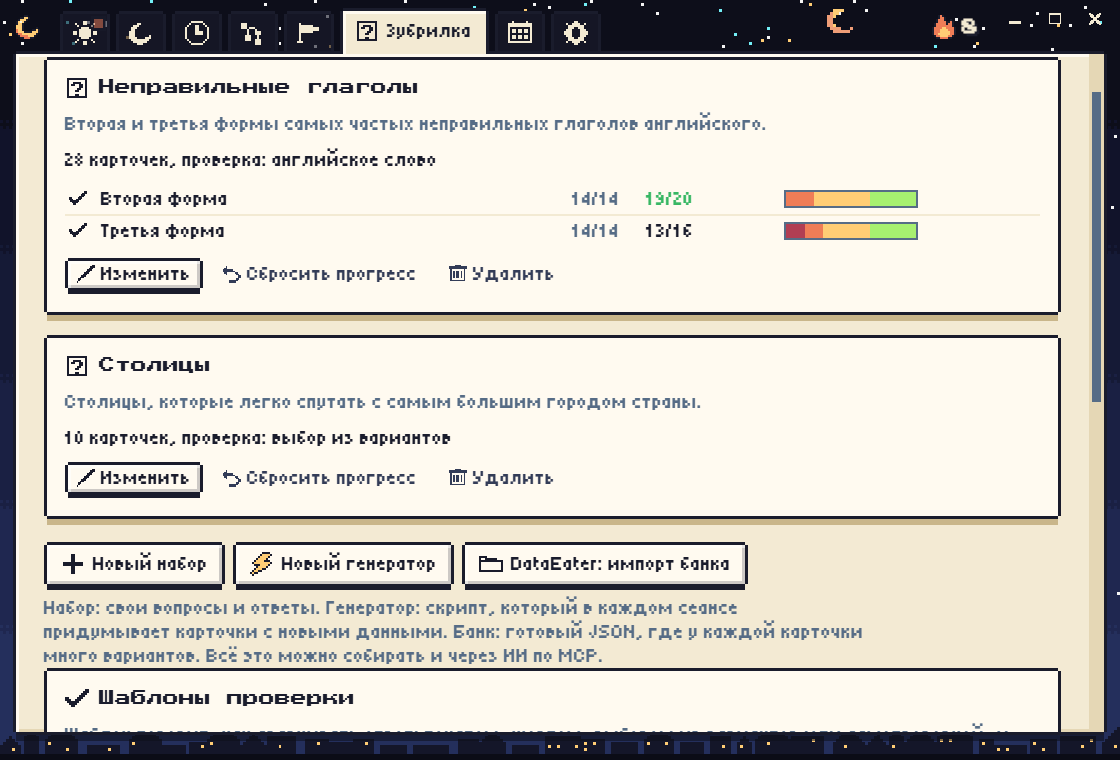
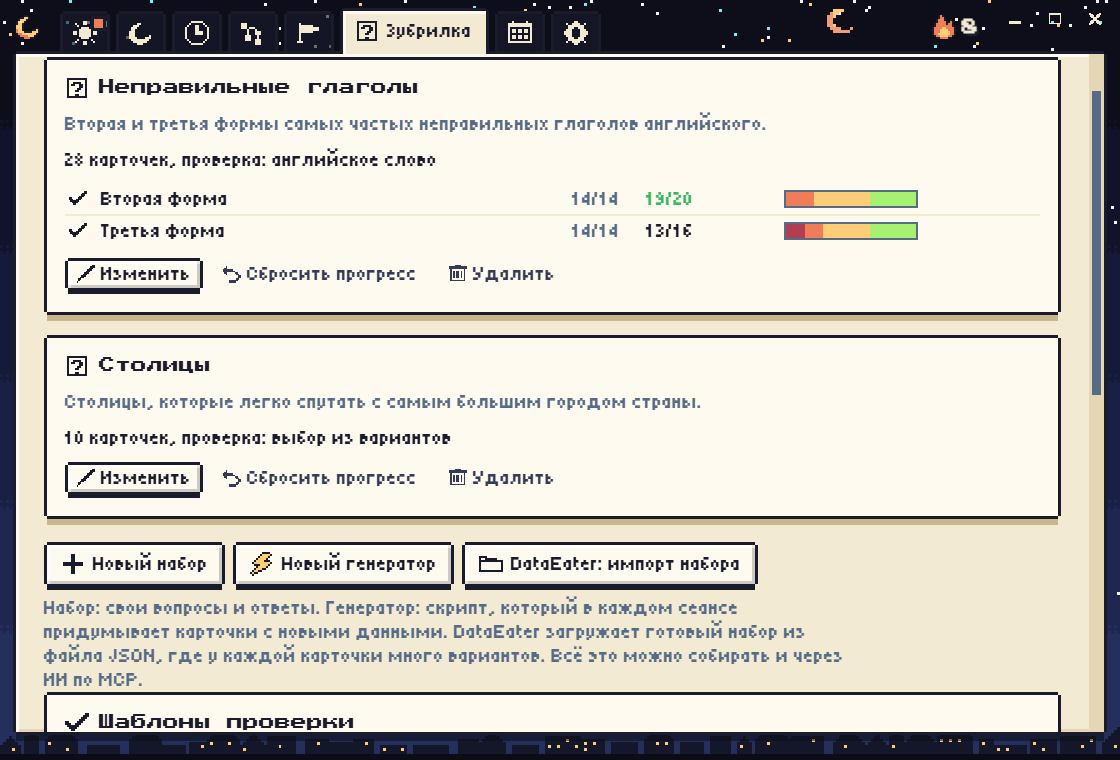
Call imported banks decks from a file in the interface

Changed region(s): [[0.0312, 0.8171, 0.9688, 0.9684], [0.625, 0.6961, 0.6875, 0.7868]]

diff --git a/src/drill/DataEater.tsx b/src/drill/DataEater.tsx
@@ -61,7 +61,7 @@ export function DataEater({ banks, onClose, onDone }: { banks: DrillDeckInfo[]; 
   return (
     <Modal
       wide
-      title={t("DataEater: импорт банка", "DataEater: import a bank")}
+      title={t("DataEater: импорт набора", "DataEater: import a deck")}
       onClose={onClose}
       footer={
         <>
@@ -80,8 +80,8 @@ export function DataEater({ banks, onClose, onDone }: { banks: DrillDeckInfo[]; 
       <div className="drill-form">
         <p className="muted">
           {t(
-            "DataEater ест готовые банки карточек в формате JSON. В банке темы с теорией и карточки, у каждой карточки много вариантов с разными данными. После промаха карточка вернётся с другим вариантом. Такой файл обычно собирает скрипт, который сам считает ответы, или ИИ через MCP (import_drill_bank).",
-            "DataEater eats ready card banks in JSON. A bank has topics with theory and cards, and each card has many variants with different data. After a miss the card comes back with another variant. Such a file is usually built by a script that computes the answers itself, or by AI over MCP (import_drill_bank).",
+            "DataEater ест готовые наборы из файлов JSON. В таком наборе темы с теорией и карточки, у каждой карточки много вариантов с разными данными. После промаха карточка вернётся с другим вариантом. Файл обычно собирает скрипт, который сам считает ответы, или ИИ через MCP (import_drill_bank).",
+            "DataEater eats ready decks from JSON files. A deck like this has topics with theory and cards, and each card has many variants with different data. After a miss the card comes back with another variant. The file is usually built by a script that computes the answers itself, or by AI over MCP (import_drill_bank).",
           )}
         </p>
         <pre className="eater-format">
@@ -109,7 +109,7 @@ export function DataEater({ banks, onClose, onDone }: { banks: DrillDeckInfo[]; 
                   {t(`Заменить «${same.title}», прогресс сохранится`, `Replace "${same.title}", progress is kept`)}
                 </button>
                 <button className={replace === null ? "on" : ""} onClick={() => setReplace(null)}>
-                  {t("Добавить новым банком", "Add as a new bank")}
+                  {t("Добавить новым набором", "Add as a new deck")}
                 </button>
               </div>
             )}
@@ -120,8 +120,8 @@ export function DataEater({ banks, onClose, onDone }: { banks: DrillDeckInfo[]; 
           <div className="eater-file">
             <p className="good">
               {t(
-                `${report.replaced ? "Заменён" : "Добавлен"} банк «${report.title}»`,
-                `${report.replaced ? "Replaced" : "Added"} the bank "${report.title}"`,
+                `${report.replaced ? "Заменён" : "Добавлен"} набор «${report.title}»`,
+                `${report.replaced ? "Replaced" : "Added"} the deck "${report.title}"`,
               )}
               : {plural(report.topics, "тема", "темы", "тем", "topic", "topics")},{" "}
               {plural(report.cards, "карточка", "карточки", "карточек", "card", "cards")},{" "}
@@ -136,7 +136,7 @@ export function DataEater({ banks, onClose, onDone }: { banks: DrillDeckInfo[]; 
               </ul>
             )}
             <p className="muted">
-              {t("Чтобы зубрить банк, добавь его в режим на вкладке Старт.", "To drill the bank, add it to a mode on the Start tab.")}
+              {t("Чтобы зубрить набор, добавь его в режим на вкладке Старт.", "To drill the deck, add it to a mode on the Start tab.")}
             </p>
           </div>
         )}

diff --git a/src/drill/DrillDecks.tsx b/src/drill/DrillDecks.tsx
@@ -66,7 +66,7 @@ export function DrillDecks({ ov, reload }: { ov: DrillOverview; reload: () => Pr
         <section key={d.id} className={`card drill-deck${d.kind === "generator" && !d.enabled ? " off" : ""}`}>
           <h2 className="card-title">
             <Px name={d.kind === "generator" ? "sBolt" : "cards"} scale={2} /> {d.title}
-            {d.kind === "bank" && <span className="drill-chip">{t("банк", "bank")}</span>}
+            {d.kind === "bank" && <span className="drill-chip">{t("из файла", "from file")}</span>}
             {d.kind === "generator" && <span className="drill-chip gen">{t("генератор", "generator")}</span>}
             {d.kind === "generator" && !d.enabled && <span className="drill-chip again">{t("выключен", "off")}</span>}
             {d.author === "ai" && <span className="drill-chip ai">{t("от ИИ", "by AI")}</span>}
@@ -136,8 +136,8 @@ export function DrillDecks({ ov, reload }: { ov: DrillOverview; reload: () => Pr
               onClick={() =>
                 setSure({
                   text: t(
-                    `Удалить ${d.kind === "generator" ? "генератор" : d.kind === "bank" ? "банк" : "набор"} «${d.title}» вместе с прогрессом?`,
-                    `Delete the ${d.kind === "generator" ? "generator" : d.kind === "bank" ? "bank" : "deck"} "${d.title}" with its progress?`,
+                    `Удалить ${d.kind === "generator" ? "генератор" : "набор"} «${d.title}» вместе с прогрессом?`,
+                    `Delete the ${d.kind === "generator" ? "generator" : "deck"} "${d.title}" with its progress?`,
                   ),
                   run: () => run(() => api.drillDeleteDeck(d.id)),
                 })
@@ -160,13 +160,13 @@ export function DrillDecks({ ov, reload }: { ov: DrillOverview; reload: () => Pr
           {t("Новый генератор", "New generator")}
         </Button>
         <Button kind="paper" icon="folder" onClick={() => setEater(true)}>
-          {t("DataEater: импорт банка", "DataEater: import a bank")}
+          {t("DataEater: импорт набора", "DataEater: import a deck")}
         </Button>
       </div>
       <p className="muted drill-help">
         {t(
-          "Набор: свои вопросы и ответы. Генератор: скрипт, который в каждом сеансе придумывает карточки с новыми данными. Банк: готовый JSON, где у каждой карточки много вариантов. Всё это можно собирать и через ИИ по MCP.",
-          "Deck: your own questions and answers. Generator: a script that makes up cards with new data in every session. Bank: a ready JSON file where each card has many variants. You can also build all of these with AI over MCP.",
+          "Набор: свои вопросы и ответы. Генератор: скрипт, который в каждом сеансе придумывает карточки с новыми данными. DataEater загружает готовый набор из файла JSON, где у каждой карточки много вариантов. Всё это можно собирать и через ИИ по MCP.",
+          "Deck: your own questions and answers. Generator: a script that makes up cards with new data in every session. DataEater loads a ready deck from a JSON file where each card has many variants. You can also build all of these with AI over MCP.",
         )}
       </p>
       <CheckTemplates list={ov.checks} reload={reload} />
@@ -197,7 +197,7 @@ export function DrillDecks({ ov, reload }: { ov: DrillOverview; reload: () => Pr
           banks={ov.decks.filter((d) => d.kind === "bank")}
           onClose={() => setEater(false)}
           onDone={() => {
-            toast(t("Банк импортирован.", "Bank imported."), "good");
+            toast(t("Набор импортирован.", "Deck imported."), "good");
             void reload();
           }}
         />

diff --git a/src/drill/DrillScreen.tsx b/src/drill/DrillScreen.tsx
@@ -135,8 +135,8 @@ export function DrillScreen() {
               </h2>
               <p>
                 {t(
-                  "Зубрилка учит всему, что можно разложить на вопросы и ответы. Собери свой набор карточек, загрузи готовый банк из файла или попроси ИИ собрать набор через MCP.",
-                  "The drill trainer teaches anything you can split into questions and answers. Build your own deck of cards, load a ready bank from a file or ask an AI to build a deck over MCP.",
+                  "Зубрилка учит всему, что можно разложить на вопросы и ответы. Собери свои карточки, загрузи готовый набор из файла или попроси ИИ собрать набор через MCP.",
+                  "The drill trainer teaches anything you can split into questions and answers. Build your own cards, load a ready deck from a file or ask an AI to build a deck over MCP.",
                 )}
               </p>
               <div className="row">

diff --git a/src/drill/PresetEditor.tsx b/src/drill/PresetEditor.tsx
@@ -46,7 +46,7 @@ const KIND_NOTE = (d: DrillDeckInfo) =>
       ? t(", генератор", ", generator")
       : t(", генератор выключен", ", generator off")
     : d.kind === "bank"
-      ? t(", банк", ", bank")
+      ? t(", из файла", ", from file")
       : "";
 
 const GOALS: { value: DrillGoal; label: string }[] = [

diff --git a/src-tauri/src/drill.rs b/src-tauri/src/drill.rs
@@ -2264,9 +2264,9 @@ pub struct ImportReport {
 
 pub fn parse_bank(text: &str) -> Result<BankInput, String> {
     if text.len() as u64 > MAX_BANK_BYTES {
-        return Err(tr!("Банк больше 16 МБ.", "The bank is larger than 16 MB."));
+        return Err(tr!("Файл набора больше 16 МБ.", "The deck file is larger than 16 MB."));
     }
-    serde_json::from_str(text.trim_start_matches('\u{feff}')).map_err(|e| tr!("Банк не читается как JSON: {e}.", "The bank is not valid JSON: {e}."))
+    serde_json::from_str(text.trim_start_matches('\u{feff}')).map_err(|e| tr!("Файл набора не читается как JSON: {e}.", "The deck file is not valid JSON: {e}."))
 }
 
 pub fn read_bank_file(path: &str) -> Result<BankInput, String> {
@@ -2276,7 +2276,7 @@ pub fn read_bank_file(path: &str) -> Result<BankInput, String> {
     }
     let len = std::fs::metadata(p).map_err(|e| tr!("Файл не найден: {e}.", "File not found: {e}."))?.len();
     if len > MAX_BANK_BYTES {
-        return Err(tr!("Банк больше 16 МБ.", "The bank is larger than 16 MB."));
+        return Err(tr!("Файл набора больше 16 МБ.", "The deck file is larger than 16 MB."));
     }
     parse_bank(&std::fs::read_to_string(p).map_err(|e| tr!("Файл не читается: {e}.", "The file can't be read: {e}."))?)
 }
@@ -2284,18 +2284,18 @@ pub fn read_bank_file(path: &str) -> Result<BankInput, String> {
 pub fn import_bank(store: &Store, at: NaiveDateTime, input: BankInput, replace: Option<&str>, author: Author) -> Result<ImportReport, String> {
     let _g = store.lock();
     let existing: Option<Bank> = match replace.filter(|r| !r.is_empty()) {
-        Some(r) => Some(store.load_item(BANKS, r).ok_or_else(|| tr!("Банк для замены не найден.", "The bank to replace was not found."))?),
+        Some(r) => Some(store.load_item(BANKS, r).ok_or_else(|| tr!("Набор для замены не найден.", "The deck to replace was not found."))?),
         None => None,
     };
     if existing.is_none() && deck_count(store) >= MAX_DECKS {
         return Err(tr!("Наборов не больше {MAX_DECKS}.", "At most {MAX_DECKS} decks."));
     }
-    let title = text(&input.title, 80, &tr!("Название банка", "Bank title"))?;
+    let title = text(&input.title, 80, &tr!("Название набора", "Deck title"))?;
     if title.is_empty() {
-        return Err(tr!("У банка нет названия: заполни title.", "The bank has no title: fill in title."));
+        return Err(tr!("У набора нет названия: заполни title.", "The deck has no title: fill in title."));
     }
     if input.cards.len() > MAX_CARDS {
-        return Err(tr!("В банке не больше {MAX_CARDS} карточек.", "A bank holds at most {MAX_CARDS} cards."));
+        return Err(tr!("В наборе не больше {MAX_CARDS} карточек.", "A deck holds at most {MAX_CARDS} cards."));
     }
     let mut topics = clean_topics(input.topics)?;
     let mut seen = HashSet::new();
@@ -2335,10 +2335,10 @@ pub fn import_bank(store: &Store, at: NaiveDateTime, input: BankInput, replace: 
         cards.push(card);
     }
     if overflow {
-        note(&mut problems, tr!("Часть вариантов не вошла: не больше {MAX_VARIANTS} на карточку и {MAX_BANK_VARIANTS} на банк.", "Some variants were left out: at most {MAX_VARIANTS} per card and {MAX_BANK_VARIANTS} per bank."));
+        note(&mut problems, tr!("Часть вариантов не вошла: не больше {MAX_VARIANTS} на карточку и {MAX_BANK_VARIANTS} на набор.", "Some variants were left out: at most {MAX_VARIANTS} per card and {MAX_BANK_VARIANTS} per deck."));
     }
     if cards.is_empty() {
-        return Err(tr!("В банке нет ни одной рабочей карточки. {}", "The bank has no working cards. {}", problems.join(" ")));
+        return Err(tr!("В наборе нет ни одной рабочей карточки. {}", "The deck has no working cards. {}", problems.join(" ")));
     }
     topics.retain(|t| cards.iter().any(|c| c.topic == t.id));
     let now = fmt_dt(at);
@@ -2448,7 +2448,7 @@ pub fn save_article(store: &Store, at: NaiveDateTime, input: ArticleInput, autho
     }
     let _g = store.lock();
     let existing: Option<Article> = match input.id.as_deref().filter(|i| !i.is_empty()) {
-        Some(i) if bank_articles(&cat).iter().any(|a| a.id == i) => return Err(tr!("Статью банка или генератора менять нельзя, добавь свою.", "Articles of banks and generators can't be changed, add your own.")),
+        Some(i) if bank_articles(&cat).iter().any(|a| a.id == i) => return Err(tr!("Статью из набора менять нельзя, добавь свою.", "An article from the deck can't be changed, add your own.")),
         Some(i) => Some(store.load_item(THEORY, i).ok_or_else(|| tr!("Статья не найдена.", "Article not found."))?),
         None => None,
     };
@@ -2470,7 +2470,7 @@ pub fn save_article(store: &Store, at: NaiveDateTime, input: ArticleInput, autho
 
 pub fn delete_article(store: &Store, id: &str) -> Result<(), String> {
     if bank_articles(&Catalog::load(store)).iter().any(|a| a.id == id) {
-        return Err(tr!("Статью банка или генератора удалить нельзя.", "Articles of banks and generators can't be deleted."));
+        return Err(tr!("Статью из набора удалить нельзя.", "An article from the deck can't be deleted."));
     }
     let _g = store.lock();
     store.delete_item(THEORY, id)

diff --git a/src-tauri/src/ai_guide.rs b/src-tauri/src/ai_guide.rs
@@ -1,10 +1,11 @@
 pub const INSTRUCTIONS: &str = "Next Day is the user's local day planner (Windows tray app). The user plans only TOMORROW, ticks checklist items during the day and seals the day with a rating. A goal is a map: topics linked by prerequisites, each with tasks ranked from simple to hard. While a goal is active the app itself puts its next tasks into tomorrow's plan, as many as fit the goal's daily minutes, and ticks move the goal forward. Start with get_overview and take dates from it. Before building a goal, read get_profile (real working rhythm) and recent get_history. create_goal makes a DRAFT that only the user can activate in the app; never pretend a draft is active. The drill trainer (tab Зубрилка) keeps decks of cards and presets of how to drill them: read get_drill before coaching, build decks with create_drill_deck and a fitting check template, tasks that need fresh data every time with install_drill_generator (a sandboxed JavaScript plugin) or import_drill_bank (a prepared JSON bank), and never turn on the screen lock or remove its escape unless the user asked. Read the resource nextday://guide for the data model, planning rules, tool reference and workflows.";
 
-const ENGLISH_UI: [(&str, &str); 26] = [
+const ENGLISH_UI: [(&str, &str); 27] = [
     ("ИИ через MCP", "AI over MCP"),
     ("Зубрилка", "Drill"),
     ("Справочник", "Reference"),
     ("Наборы", "Decks"),
+    ("из файла", "from file"),
     ("Проверить", "Test"),
     ("Основные", "Basic"),
     ("Для программистов", "For programmers"),
@@ -161,7 +162,7 @@ A checklist holds at most 40 items and is always sorted by start hour counted fr
 Decks come in three kinds, all drilled the same way through presets:
 
 - deck: cards written by hand or by AI with `create_drill_deck`. The fields are below.
-- bank: a prepared bank imported from JSON with `import_drill_bank` (DataEater). Every card is a template with many variants that differ only in data, for example code cards whose answers come from executing the code.
+- bank: a deck imported from a JSON file with `import_drill_bank` (DataEater). The app labels it из файла and never says bank, so call it a deck when you talk to the user. Every card is a template with many variants that differ only in data, for example code cards whose answers come from executing the code.
 - generator: a JavaScript plugin that makes fresh variants at the start of every session, installed with `install_drill_generator`.
 
 After a miss, a card of a bank or a generator comes back with another variant: the same task with new data.

diff --git a/README.md b/README.md
@@ -77,7 +77,7 @@ Download the installer from [Releases](https://github.com/IgorBerezkin/NextDay/r
 
 Свои наборы собираются прямо в программе: вопрос, ответ, другие верные ответы, варианты для выбора и пояснение после промаха. Много карточек можно вставить сразу, по одной в строке. Как сравнивать ответ, говорит шаблон проверки: текстом, числом, выбором из вариантов или самопроверкой. Шаблон может подсказывать под полем ответа, в каком виде нужен ответ. Шаблоны лежат в группах, свои шаблоны и группы можно создавать под любую тему.
 
-Если задачу нужно решать снова и снова с новыми данными, вместо набора подойдёт генератор: скрипт на JavaScript, который в каждом сеансе придумывает новые карточки. Генератор работает в песочнице без доступа к сети и к вашим данным и включается только после того, как вы посмотрите примеры его карточек. Готовые банки карточек в JSON загружаются кнопкой «DataEater».
+Если задачу нужно решать снова и снова с новыми данными, вместо набора подойдёт генератор: скрипт на JavaScript, который в каждом сеансе придумывает новые карточки. Генератор работает в песочнице без доступа к сети и к вашим данным и включается только после того, как вы посмотрите примеры его карточек. Готовые наборы из файлов JSON загружаются кнопкой «DataEater».
 
 #### Справочник
 
@@ -243,7 +243,7 @@ Next Day это локальный однопользовательский пл
 Наборы бывают трёх видов, и все зубрятся одинаково, через режимы:
 
 - deck: карточки, которые написал пользователь или ИИ через `create_drill_deck`. Поля ниже.
-- bank: готовый банк, импортированный из JSON через `import_drill_bank` (DataEater). Каждая карточка это шаблон со множеством вариантов, которые отличаются только данными, например карточки с кодом, ответы к которым получены выполнением кода.
+- bank: набор, импортированный из файла JSON через `import_drill_bank` (DataEater). В программе у него пометка «из файла», слово «банк» она не использует, поэтому в разговоре с пользователем называйте его набором. Каждая карточка это шаблон со множеством вариантов, которые отличаются только данными, например карточки с кодом, ответы к которым получены выполнением кода.
 - generator: плагин на JavaScript, который придумывает свежие варианты в начале каждого сеанса; ставится через `install_drill_generator`.
 
 После промаха карточка банка или генератора возвращается другим вариантом: та же задача с новыми данными.
@@ -733,7 +733,7 @@ You type the answer as text or a number, pick it from options with the mouse or 
 
 You build your own decks right in the app: a question, an answer, other accepted answers, options to choose from and an explanation for a miss. Many cards can be pasted at once, one per line. A check template says how to compare the answer: as text, as a number, as a choice of options or by self-check. A template can also show a hint under the answer field about the form of the answer. Templates live in groups, and you can create your own templates and groups for any subject.
 
-When a task has to be solved again and again with new data, a generator works better than a deck: a JavaScript script that makes new cards for every session. A generator runs in a sandbox without access to the network and to your data, and it is turned on only after you look at its sample cards. Ready banks of cards in JSON are loaded with the DataEater button.
+When a task has to be solved again and again with new data, a generator works better than a deck: a JavaScript script that makes new cards for every session. A generator runs in a sandbox without access to the network and to your data, and it is turned on only after you look at its sample cards. Ready decks from JSON files are loaded with the DataEater button.
 
 #### Reference
 
@@ -899,7 +899,7 @@ A checklist holds at most 40 items and is always sorted by start hour counted fr
 Decks come in three kinds, all drilled the same way through presets:
 
 - deck: cards written by hand or by AI with `create_drill_deck`. The fields are below.
-- bank: a prepared bank imported from JSON with `import_drill_bank` (DataEater). Every card is a template with many variants that differ only in data, for example code cards whose answers come from executing the code.
+- bank: a deck imported from a JSON file with `import_drill_bank` (DataEater). The app labels it from file and never says bank, so call it a deck when you talk to the user. Every card is a template with many variants that differ only in data, for example code cards whose answers come from executing the code.
 - generator: a JavaScript plugin that makes fresh variants at the start of every session, installed with `install_drill_generator`.
 
 After a miss, a card of a bank or a generator comes back with another variant: the same task with new data.
